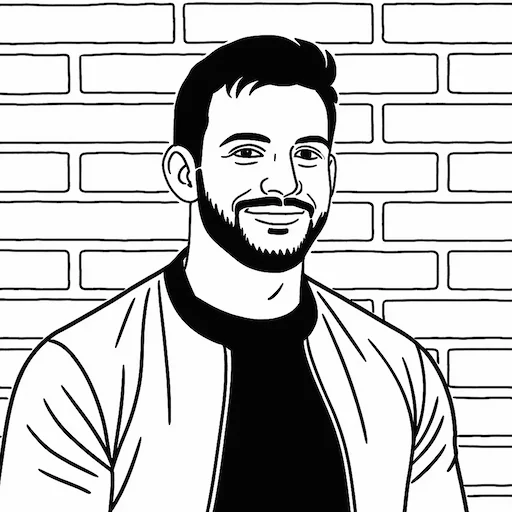
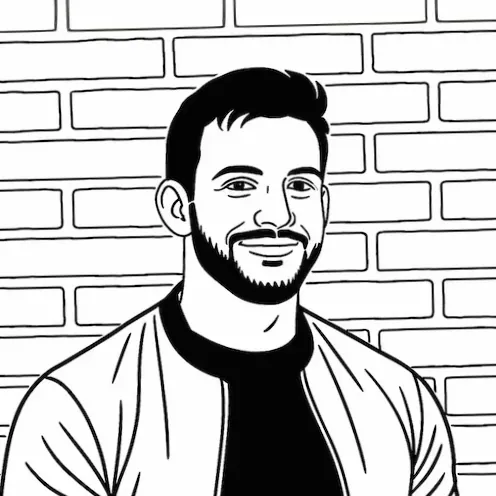
Change illustrated profile image and other minor improvements

diff --git a/components/base/MyLink.vue b/components/base/MyLink.vue
@@ -2,7 +2,8 @@
 import type { RouteLocationRaw } from 'vue-router'
 
 const props = defineProps<{
-  to: RouteLocationRaw
+  to?: RouteLocationRaw
+  href?: string
   label?: string
   noHoverUnderline?: boolean
   newTab?: boolean
@@ -19,24 +20,17 @@ const linkAttrs = computed(() => {
   return {}
 })
 
-const isExternalLink = computed(() => {
-  if (typeof props.to === 'string') {
-    return props.to.startsWith('http') || props.to.startsWith('mailto:')
-  }
-  return false
-})
-
 const containerClass = `relative py-1 uppercase font-bold tracking-widest text-sm after:content-[''] after:absolute after:left-0 after:bottom-0 after:w-0 after:bg-yellow-300 after:transition-[width] after:duration-200 after:ease-in-out hover:after:w-full`
 </script>
 
 <template>
-  <NuxtLink v-if="!isExternalLink" :to="to" v-bind="linkAttrs">
+  <NuxtLink v-if="to" :to="to" v-bind="linkAttrs">
     <div :class="[{ 'after:h-[3px]': !noHoverUnderline }, containerClass, customClass]">
       <slot>{{ label }}</slot>
     </div>
   </NuxtLink>
 
-  <a v-else :href="typeof to === 'string' ? to : '#'" v-bind="linkAttrs">
+  <a v-else :href v-bind="linkAttrs">
     <div :class="[{ 'after:h-[3px]': !noHoverUnderline }, containerClass, customClass]">
       <slot>{{ label }}</slot>
     </div>

diff --git a/components/Project/ProjectCard.vue b/components/Project/ProjectCard.vue
@@ -24,7 +24,7 @@ const imgAlt = computed(() => `${props.project.name} preview`)
       class="aspect-3/2 object-cover w-full h-auto transition-all duration-300 sm:w-[300px] lg:grayscale-100 lg:group-hover:grayscale-0 lg:group-focus:grayscale-0"
     />
     <div
-      class="absolute hidden lg:block sm:w-[300px] aspect-3/2 bg-yellow-500/5 group-hover:opacity-0 transition-all duration-300"
+      class="absolute hidden lg:block sm:w-[300px] aspect-3/2 bg-yellow-600/5 group-hover:opacity-0 transition-all duration-300"
     ></div>
 
     <div class="p-4 md:p-8 sm:min-h-[220px] md:min-h-[200px]">

diff --git a/components/Project/ProjectDetails.vue b/components/Project/ProjectDetails.vue
@@ -32,7 +32,7 @@ const hasVerticalImages = computed(() => props.project.imagesOrientation === 've
       <div class="mt-4 flex flex-col gap-2">
         <div class="flex items-center gap-3" v-for="link in project.links" :key="link.url">
           <Icon :name="`uil:${link.icon}`" size="20px" />
-          <MyLink :to="link.url" new-tab>
+          <MyLink :href="link.url" new-tab>
             <p>{{ link.label }}</p>
           </MyLink>
         </div>

diff --git a/components/experience/ExperienceCard.vue b/components/experience/ExperienceCard.vue
@@ -24,7 +24,7 @@ const companyLogoAlt = computed(() => `${props.job.company.name} logo`)
         />
         <MyLink
           v-if="job.company.url"
-          :to="job.company.url"
+          :href="job.company.url"
           target="_blank"
           rel="noopener noreferrer"
         >

diff --git a/app.vue b/app.vue
@@ -19,6 +19,7 @@ onUnmounted(() => {
   window.removeEventListener('mousemove', updatePosition)
 })
 // TODO: Icons disappear on mobile occasionally (both responsive mobile on desktop and actual mobile device)
+// TODO: Change favicon
 </script>
 
 <template>
